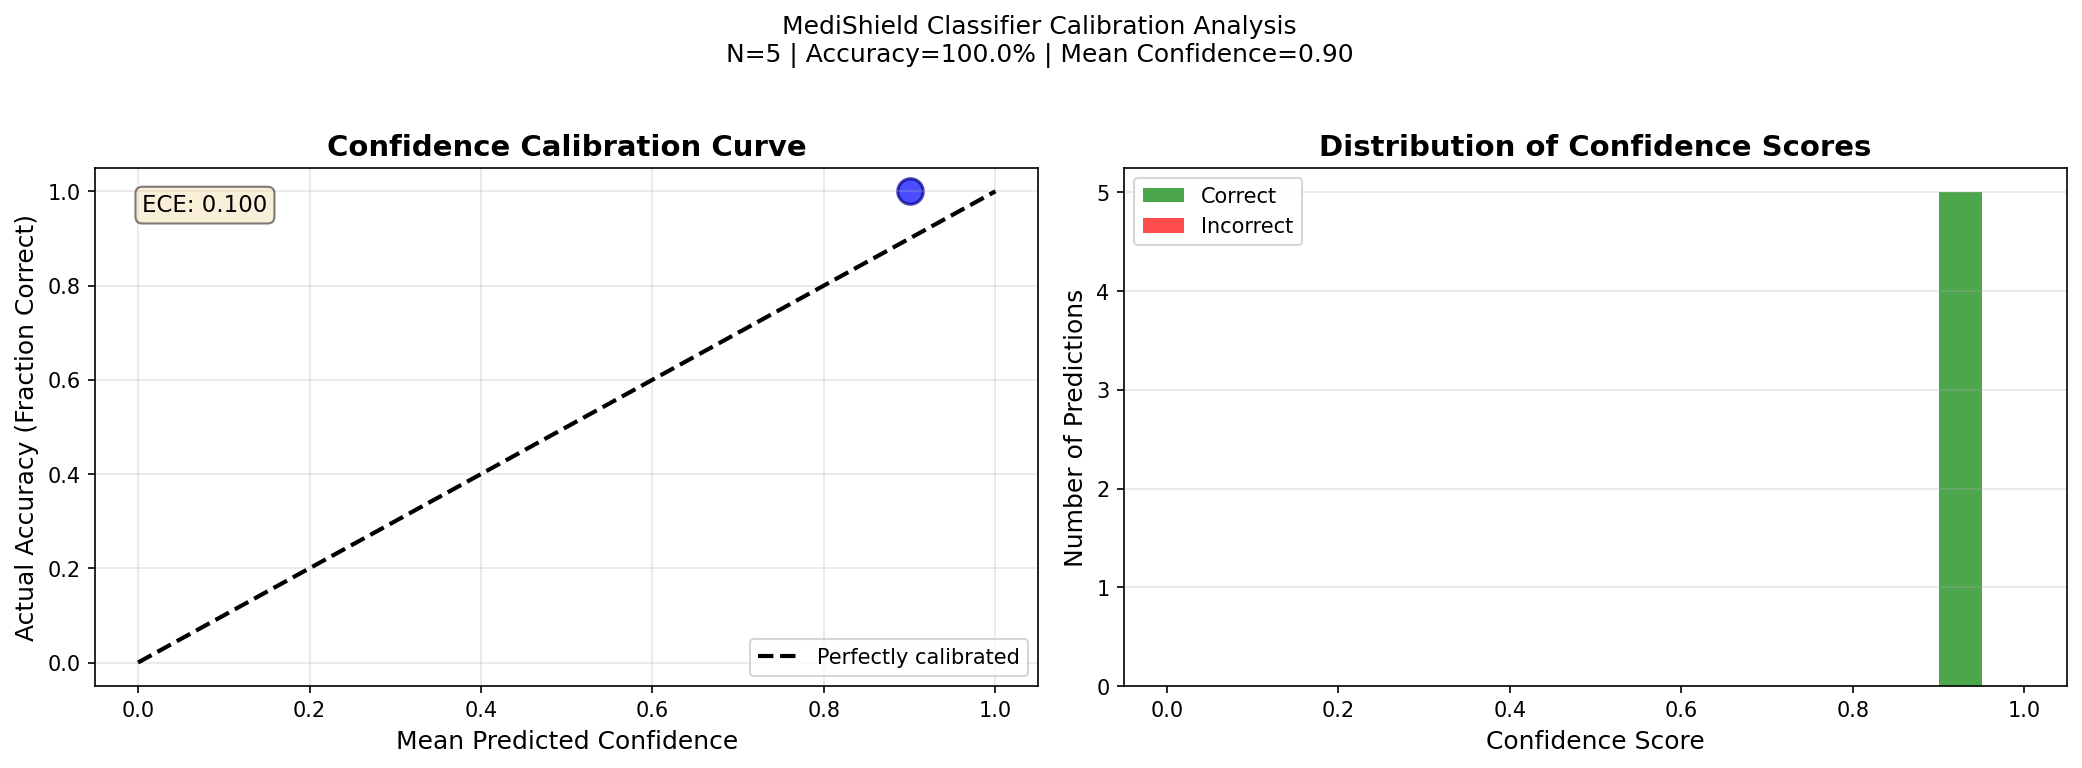
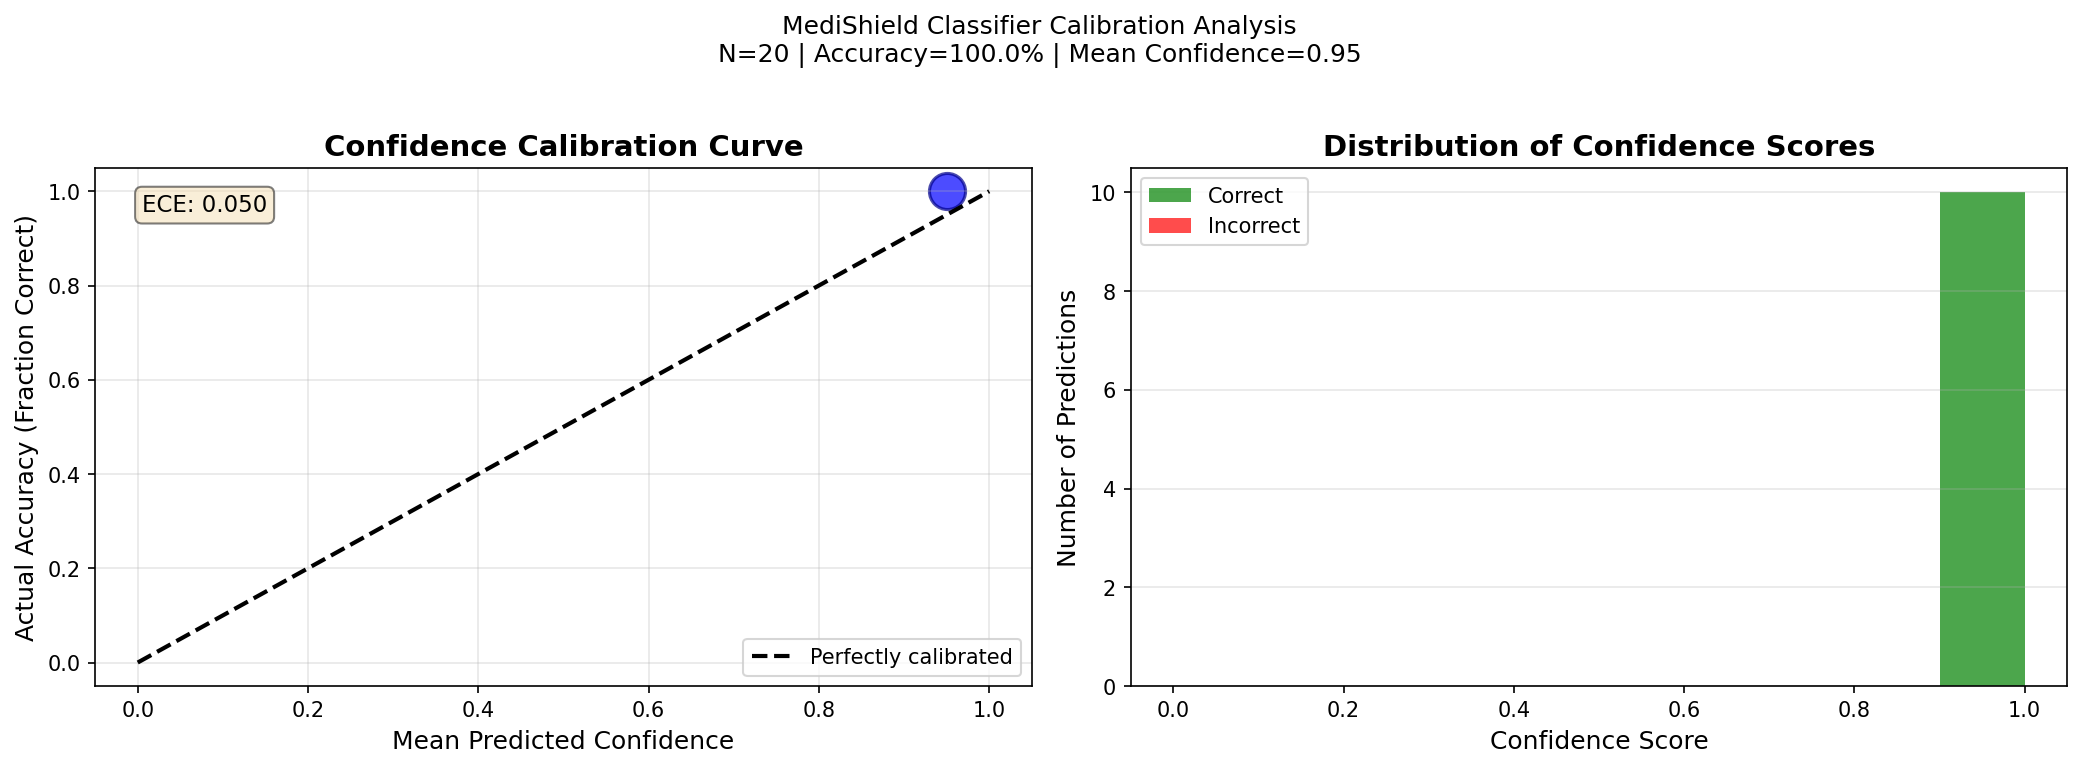
Added architecture diagram and fixed issues with processing policies

diff --git a/app/db/cases.py b/app/db/cases.py
@@ -108,6 +108,21 @@ class CaseRepository:
         if fraud_out:
             case.fraud_output = fraud_out.model_dump(mode="json")
 
+        # Handle policy ingestion (goes directly to END, no orchestrator decision)
+        policy_ingestion_out = pipeline_state.get("policy_ingestion_output")
+        if policy_ingestion_out:
+            case.policy_output = policy_ingestion_out.model_dump(mode="json")
+            if policy_ingestion_out.ingestion_successful:
+                case.status = CaseStatus.APPROVED.value
+                case.decision = "approve"
+                case.decision_confidence = policy_ingestion_out.confidence
+                case.decision_justification = f"Policy document indexed successfully: {policy_ingestion_out.chunks_indexed} chunks"
+            else:
+                case.status = CaseStatus.ESCALATED.value
+                case.decision = "escalate"
+                case.decision_confidence = 0.0
+                case.decision_justification = f"Policy ingestion failed: {', '.join(policy_ingestion_out.errors or [])}"
+
         # Update decision
         final_decision: FinalDecision | None = pipeline_state.get("final_decision")
         if final_decision:

diff --git a/app/api/routes.py b/app/api/routes.py
@@ -92,10 +92,20 @@ async def create_case(
     # Process through pipeline
     start_time = time.perf_counter()
     try:
+        # Save original filename for pattern matching, then process
+        # Use a temp path with original filename for classifier pattern matching
+        original_filename = file.filename or "unknown"
+        temp_path = UPLOAD_DIR / original_filename
+        temp_path.write_bytes(content)
+
         result = process_document(
-            image_bytes=content,
+            image_path=str(temp_path),
             case_id=case.id,
         )
+
+        # Clean up temp file if different from storage path
+        if str(temp_path) != str(storage_path) and temp_path.exists():
+            temp_path.unlink()
         processing_time = time.perf_counter() - start_time
 
         # Update case with results

diff --git a/app/agents/classifier.py b/app/agents/classifier.py
@@ -47,7 +47,7 @@ FILENAME_PATTERNS = {
         r"rx[_\-]",
     ],
     DocType.POLICY_DOCUMENT: [
-        r"policy[_\-]",
+        r"policy",  # Match "policy" anywhere in filename
         r"insurance[_\-]?policy",
         r"coverage",
         r"terms[_\-]?and[_\-]?conditions",

diff --git a/README.md b/README.md
@@ -50,6 +50,8 @@ UI available at http://localhost:3000
 
 ## Architecture
 
+![MediShield Architecture Diagram](MediShield-Architecture-Diagram.png)
+
 ```
 RECEIVED → CLASSIFIED → [Route by Doc Type] → ...
   - KYC Documents:    KYC → FRAUD → ORCHESTRATOR → DECIDED
